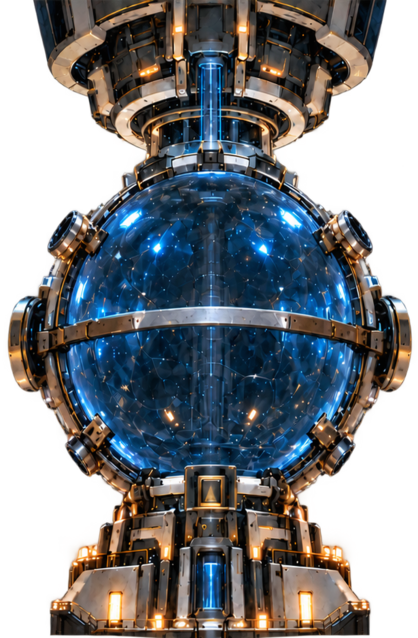
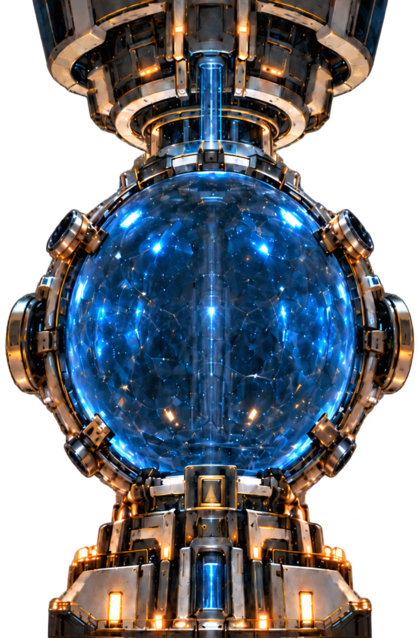
Build volumetric reactor core with layered gimbal and side clamps

diff --git a/space-battleship/assets/ui/reactor/b01/generate_modular_pipes.py b/space-battleship/assets/ui/reactor/b01/generate_modular_pipes.py
@@ -145,17 +145,19 @@ def beveled_plate(name, cx, cy, width, height, depth, z, mat, bevel=2.0):
 
 
 def clamp_half(name, start_x):
-    # A guided mechanical jaw sits above, but apart from, the core glass.
-    # The runtime translates the two jaws toward each other, then holds.
-    center_x = start_x + (106 if name.endswith("right") else 82)
-    beveled_plate(name+"_base", center_x,323,150,24,8,43,MATS["metal"],4)
-    beveled_plate(name+"_rail", center_x,314,138,4,3,49,MATS["ridge"],1)
-    beveled_plate(name+"_brass", center_x,333,142,3,3,49,MATS["gold"],1)
-    for cx in (center_x-65,center_x-33,center_x,center_x+33,center_x+65):
-        bpy.ops.mesh.primitive_cylinder_add(vertices=12, radius=3.2, depth=2.5, location=(cx,-323,50))
-        ob = bpy.context.object
-        ob.name = name+"_bolt"
-        ob.data.materials.append(MATS["ridge"])
+    # The two actuators grip the perimeter and leave the energy chamber open.
+    # Their three-dimensional feet/rails live above the sphere's front face;
+    # the runtime translates only these two pieces along their guide axis.
+    center_x = start_x + (104 if name.endswith("right") else 90)
+    beveled_plate(name+"_foot", center_x,323,94,41,17,40,MATS["metal"],6)
+    beveled_plate(name+"_spine", center_x,312,86,8,5,51,MATS["ridge"],2)
+    beveled_plate(name+"_contact", center_x,337,76,5,4,52,MATS["gold"],1.5)
+    for cx in (center_x-29, center_x, center_x+29):
+        bpy.ops.mesh.primitive_cylinder_add(vertices=12, radius=3.4, depth=4,
+                                            location=(cx,-322,52))
+        bolt = bpy.context.object
+        bolt.name = name+"_fastener"
+        bolt.data.materials.append(MATS["gold"] if cx == center_x else MATS["ridge"])
 
 
 def local_softbox(name, location, energy, size):
@@ -258,6 +260,32 @@ def setup():
     scene.view_settings.view_transform = "Standard"
 
 
+def depth_material(base, front):
+    """Keep the same lit material, but render only one side of the core plane."""
+    result = base.copy()
+    result.name = base.name + (" front" if front else " rear")
+    nodes, links = result.node_tree.nodes, result.node_tree.links
+    output = nodes.get("Material Output")
+    surface = output.inputs["Surface"]
+    prior = surface.links[0]
+    lit_surface = prior.from_socket
+    links.remove(prior)
+    geometry = nodes.new("ShaderNodeNewGeometry")
+    split = nodes.new("ShaderNodeSeparateXYZ")
+    compare = nodes.new("ShaderNodeMath")
+    compare.operation = "GREATER_THAN" if front else "LESS_THAN"
+    compare.inputs[1].default_value = 63.0
+    transparent = nodes.new("ShaderNodeBsdfTransparent")
+    mix = nodes.new("ShaderNodeMixShader")
+    links.new(geometry.outputs["Position"], split.inputs[0])
+    links.new(split.outputs["Z"], compare.inputs[0])
+    links.new(compare.outputs[0], mix.inputs[0])
+    links.new(transparent.outputs[0], mix.inputs[1])
+    links.new(lit_surface, mix.inputs[2])
+    links.new(mix.outputs[0], surface)
+    return result
+
+
 setup()
 only_core = "--only-core" in sys.argv
 for pipe_id, anchors in ({} if only_core else PATHS).items():
@@ -273,7 +301,7 @@ for pipe_id, anchors in ({} if only_core else PATHS).items():
         bpy.ops.render.render(write_still=True)
     for ob in parts:
         bpy.data.objects.remove(ob, do_unlink=True)
-for side, start_x in (() if only_core else (("left",395),("right",603))):
+for side, start_x in (("left",395),("right",603)):
     generated = set(bpy.data.objects)
     clamp_half("core_clamp_"+side,start_x)
     bpy.context.scene.render.filepath = str(ROOT / ("modular-core-clamp-"+side+".png"))
@@ -283,7 +311,18 @@ for side, start_x in (() if only_core else (("left",395),("right",603))):
 for frame in range(12):
     generated = set(bpy.data.objects)
     core_gimbal(2*math.pi*frame/12)
-    bpy.context.scene.render.filepath = str(ROOT / ("modular-core-gimbal-%02d.png" % frame))
-    bpy.ops.render.render(write_still=True)
-    for ob in set(bpy.data.objects)-generated:
+    parts = set(bpy.data.objects)-generated
+    materials = {ob: [slot.material for slot in ob.material_slots]
+                 for ob in parts if hasattr(ob.data, "materials")}
+    variants = {}
+    for side in ("rear", "front"):
+        for ob, originals in materials.items():
+            for index, mat in enumerate(originals):
+                key = (mat.name, side)
+                if key not in variants:
+                    variants[key] = depth_material(mat, side == "front")
+                ob.material_slots[index].material = variants[key]
+        bpy.context.scene.render.filepath = str(ROOT / ("modular-core-gimbal-%s-%02d.png" % (side,frame)))
+        bpy.ops.render.render(write_still=True)
+    for ob in parts:
         bpy.data.objects.remove(ob, do_unlink=True)

diff --git a/space-battleship/assets/ui/reactor/b01/README.md b/space-battleship/assets/ui/reactor/b01/README.md
@@ -1,9 +1,9 @@
 # B01 current reactor assets
 
-Current implementation: `src/ui/reactor_scene.gd` + `src/ui/reactor_stage.gd`, source revision `3b2c31e2e1b525d7c8ffc1fc4935dc5b2f31f284`. The active delivery/status is [the B01 entry](../../../../docs/verification/reactor-centered-godot/evidence/b01-redesign/README.md); the visual review is still open. Earlier whole-plate shader and ImageGen variants remain historical assets and do not define the running composition.
+Current implementation: `src/ui/reactor_scene.gd` + `src/ui/reactor_stage.gd` on `implement/reactor-centered-godot`. The active delivery/status is [the B01 entry](../../../../docs/verification/reactor-centered-godot/evidence/b01-redesign/README.md); independent visual review remains open. Earlier whole-plate shader and ImageGen variants remain historical assets and do not define the running composition.
 
-The running stage uses separate `modular-bay-background.png`, `modular-core.png`, four `modular-{weapons,defence,smelting,condensation}.png` device surfaces, eight tightly cropped physical pipe shell/front layers, twelve gimbal frames, and two clamp sprites. `reactor_pipe_view.gd` builds a separate arc-length lumen mesh on each route; `modular-pipe-lumen.gdshader` moves light packets from core socket to device socket. `modular-core-field.gdshader` generates constrained core events within the sphere, and each `reactor_module_view.gd` owns its local work effect. Accepted Owner load gates these effects; zero, pause, hidden and restart use the stage clock. No text, values, buttons, slider hit areas or economic logic are baked into these images.
+The running stage uses separate `modular-bay-background.png`, `modular-core.png`, four `modular-{weapons,defence,smelting,condensation}.png` device surfaces, eight tightly cropped physical pipe shell/front layers, twelve paired rear/front gimbal frames, and two side clamp sprites. `modular-core-unbanded-source.png` is the isolated transparent core source, edited from the original core to remove the baked cross-sphere belt; the former sheet is retained as `modular-core-source.png`. The paired Blender gimbal renders bracket that globe from behind and in front, while the actuating clamps sit on its outer sockets. `reactor_pipe_view.gd` builds a separate arc-length lumen mesh on each route; `modular-pipe-lumen.gdshader` moves light packets from core socket to device socket. `modular-core-field.gdshader` generates constrained core events within the sphere, and each `reactor_module_view.gd` owns its local work effect. Accepted Owner load gates these effects; zero, pause, hidden and restart use the stage clock. No text, values, buttons, slider hit areas or economic logic are baked into these images.
 
-Source coordinate system is 1187×1326, x right/y down; the visible stage is 808×835 below the 65px host rail. `generate_modular_pipes.py` shares tube section/material/collar construction across four independent endpoint/tangent paths and renders its pipe layers, clamps and 12-frame bearing in Blender 4.3. `assemble_modular_surfaces.sh` crops the source device/core sheets and generated layers; it checks full source canvas sizes before cropping, so rerunning it on already cropped output fails visibly. `modular-pipe-bounds.tsv` records the final pipe crop origins. Render command from repository root: `blender -b -t 2 --python assets/ui/reactor/b01/generate_modular_pipes.py`, followed by `bash assets/ui/reactor/b01/assemble_modular_surfaces.sh`. Check resulting transparent bounds and Godot imports at actual 1× size before accepting changed geometry.
+Source coordinate system is 1187×1326, x right/y down; the visible stage is 808×835 below the 65px host rail. `generate_modular_pipes.py` shares tube section/material/collar construction across four independent endpoint/tangent paths and renders its pipe layers, clamps and 12 paired gimbal frames in Blender 4.3. `assemble_modular_surfaces.sh` crops the device sheets and generated layers, and copies the unbanded core source; it checks full Blender source canvas sizes before cropping, so rerunning it on already cropped output fails visibly. `modular-pipe-bounds.tsv` records the final pipe crop origins. Render command from repository root: `blender -b -t 2 --python assets/ui/reactor/b01/generate_modular_pipes.py`, followed by `bash assets/ui/reactor/b01/assemble_modular_surfaces.sh`. Check resulting transparent bounds and Godot imports at actual 1× size before accepting changed geometry.
 
 The lower console image carries only an architectural shell. Native `Panel`, `Label`, `HSlider` and `Button` in `reactor_scene.gd` provide full count-responsive control plates and Owner-backed interaction. The shared R3 operation styles and resource icon/number contracts are consumed by that code; this asset folder does not own common host navigation, resource identity, pricing, unlock rules or save data. Old plate files remain source/history until the archive and authoring dependencies are resolved, and must not be mistaken for the current stage texture.
